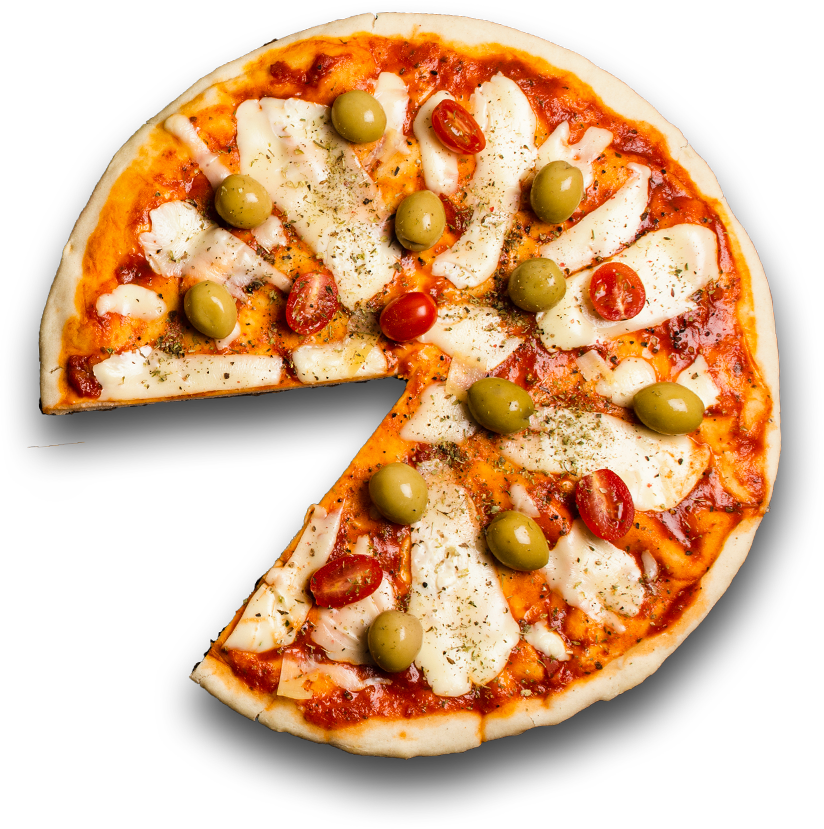
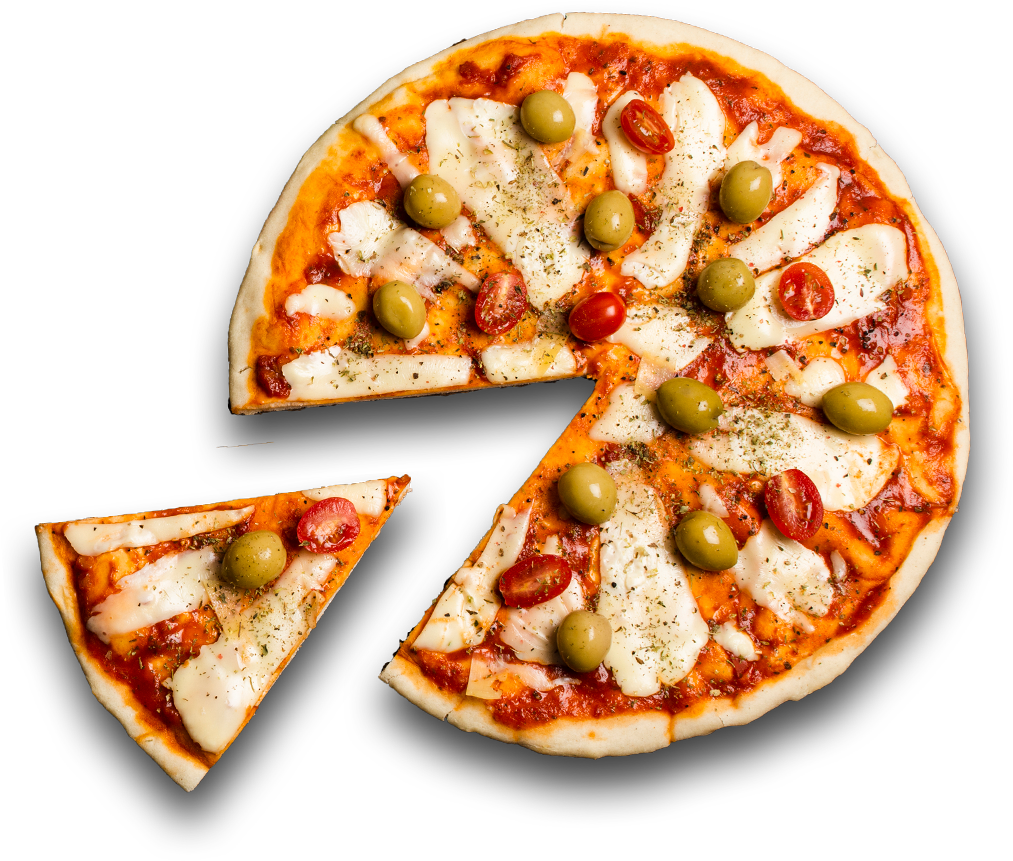
added section about

diff --git a/hwBoo/index.html b/hwBoo/index.html
@@ -58,7 +58,7 @@
             </div>
           </nav>
         </header>
-        <div class="container-xxl pt-5">
+        <div class="container-xxl pt-5 pb-5">
           <!-- Hero / Home -->
           <div class="row">
             <div class="col-md-12 col-lg-5">
@@ -217,23 +217,27 @@
             <span class="carousel-control-next-icon" aria-hidden="true"></span>
             <span class="visually-hidden">Next</span>
           </button>
-          <div class="mx-auto centered-el">
-            <button class="menu__button btn-primary btn-lg btn-dark mt-5 text-uppercase" type="button">show
-              more</button>
-          </div>
+          <button class="menu__button mx-auto d-block btn-primary btn-lg btn-dark mt-5 text-uppercase"
+            type="button">show
+            more</button>
         </div>
       </section>
       <section class="ourStory" id="ourStory">
-        <div class="container-xxl pt-5">
+        <div class="container-xxl pt-5 pb-5">
           <h2 class="ourStory__title text-center text-capitalize text-white pt-5 pb-5">our story</h2>
-        <div class="d-flex p-5">
-          <p class="ourStory__text text-white">Lorem ipsum dolor sit amet consectetur adipisicing elit. Fugit excepturi veritatis quas architecto nihil? A amet at eligendi consequatur cumque? Voluptates, itaque quod magnam vitae molestias doloribus ex ipsa voluptatibus repudiandae sed nisi nostrum vel, iure iste nesciunt animi soluta!</p>
-          <p class="ourStory__text text-white">Lorem ipsum dolor sit amet consectetur adipisicing elit. Fugit excepturi veritatis quas architecto nihil? A amet at eligendi consequatur cumque? Voluptates, itaque quod magnam vitae molestias doloribus ex ipsa voluptatibus repudiandae sed nisi nostrum vel, iure iste nesciunt animi soluta!</p>
-        </div>
-        <div class="mx-auto centered-el">
-          <button class="ourStory__button btn-primary btn-lg btn-light mt-5 mb-5 text-uppercase" type="button">show
+          <div class="d-flex p-5">
+            <p class="ourStory__text text-white">Lorem ipsum dolor sit amet consectetur adipisicing elit. Fugit
+              excepturi veritatis quas architecto nihil? A amet at eligendi consequatur cumque? Voluptates, itaque quod
+              magnam vitae molestias doloribus ex ipsa voluptatibus repudiandae sed nisi nostrum vel, iure iste nesciunt
+              animi soluta!</p>
+            <p class="ourStory__text text-white">Lorem ipsum dolor sit amet consectetur adipisicing elit. Fugit
+              excepturi veritatis quas architecto nihil? A amet at eligendi consequatur cumque? Voluptates, itaque quod
+              magnam vitae molestias doloribus ex ipsa voluptatibus repudiandae sed nisi nostrum vel, iure iste nesciunt
+              animi soluta!</p>
+          </div>
+          <button class="ourStory__button mx-auto d-block btn-primary btn-lg btn-light mt-5 mb-5 text-uppercase"
+            type="button">show
             more</button>
-        </div>
         </div>
       </section>
       <section class="promotion">
@@ -241,9 +245,10 @@
           <div class="d-flex align-items-center justify-content-center">
             <img class="" src="./img/discountPlate.png" alt="...">
             <div class="p-5">
-              <h3 class="promotion__title pt-3 mb-5">Discount up to 
+              <h3 class="promotion__title pt-3 mb-5">Discount up to
                 50% All Excursions</h3>
-              <p class="promotion__text">Lorem ipsum dolor sit amet consectetur adipisicing elit. Nesciunt cum atque excepturi quia reprehenderit vel aspernatur provident fugiat amet ipsam.</p>
+              <p class="promotion__text">Lorem ipsum dolor sit amet consectetur adipisicing elit. Nesciunt cum atque
+                excepturi quia reprehenderit vel aspernatur provident fugiat amet ipsam.</p>
               <button class="promotion__button btn-primary btn-lg btn-dark mt-5 text-uppercase" type="button">read
                 more</button>
             </div>
@@ -253,11 +258,25 @@
             <div class="p-5">
               <h3 class="promotion__title pt-3 mb-5">January’s Promo:
                 Buy 1 Get 1 Free!</h3>
-              <p class="promotion__text">Lorem ipsum dolor sit amet consectetur adipisicing elit. Nesciunt cum atque excepturi quia reprehenderit vel aspernatur provident fugiat amet ipsam.</p>
+              <p class="promotion__text">Lorem ipsum dolor sit amet consectetur adipisicing elit. Nesciunt cum atque
+                excepturi quia reprehenderit vel aspernatur provident fugiat amet ipsam.</p>
               <button class="promotion__button btn-primary btn-lg btn-dark mt-5 text-uppercase" type="button">read
                 more</button>
             </div>
           </div>
+        </div>
+      </section>
+      <section class="moreAbout position-relative">
+        <div class="container-xxl pt-5">
+          <img src="./img/lives.png"
+            class="position-absolute translate-middle start-50 moreAbout__leaves d-none d-lg-block">
+          <h2 class="moreAbout__title text-center text-capitalize text-white pt-5 pb-5 mb-5">more about making dishes
+          </h2>
+          <p class="moreAbout__text text-center mx-auto" style="max-width:720px;">Lorem ipsum dolor sit amet consectetur
+            adipisicing elit. Deleniti sapiente earum adipisci a. Odio rem nihil ducimus, voluptatem maxime distinctio?
+          </p>
+          <div class="moreAbout__underline mx-auto mt-5 mb-5"></div>
+          <img src="img/pizza.png" class="position-relative m-auto">
         </div>
       </section>
   </div>

diff --git a/hwBoo/sass/main.css b/hwBoo/sass/main.css
@@ -158,10 +158,6 @@ a {
   font-family: "Open Sans";
 }
 
-.centered-el {
-  width: 350px;
-}
-
 .menu__button {
   width: 334px;
   height: 75px;
@@ -232,4 +228,35 @@ a {
   color: #ffffff;
   font-weight: 800;
   font-family: "Open Sans";
+}
+
+.moreAbout {
+  background-color: #000000;
+  background: url(../img/headerBackground.png) no-repeat;
+  background-size: cover;
+  max-height: 1080px;
+}
+
+.moreAbout__leaves {
+  top: 20%;
+}
+
+.moreAbout__title {
+  font-size: 58px;
+  color: #f8f6f1;
+  font-family: "Reey-Regular";
+}
+
+.moreAbout__text {
+  font-size: 25px;
+  line-height: 33px;
+  color: #f8f6f1;
+  font-weight: 400;
+  font-family: "Montserrat";
+}
+
+.moreAbout__underline {
+  background-color: #fafafa;
+  height: 10px;
+  width: 160px;
 }/*# sourceMappingURL=main.css.map */

diff --git a/hwBoo/sass/layout/_moreAbout.scss b/hwBoo/sass/layout/_moreAbout.scss
@@ -1,0 +1,31 @@
+.moreAbout {
+    background-color: #000000;
+    background: url(../img/headerBackground.png) no-repeat;
+    background-size: cover;
+    max-height: 1080px;
+}
+
+.moreAbout__leaves {
+    top: 20%;
+}
+
+.moreAbout__title {
+    font-size: 58px;
+    color: #f8f6f1;
+    font-family: "Reey-Regular";
+}
+
+.moreAbout__text {
+    // max-width: 714px;
+    font-size: 25px;
+    line-height: 33px;
+    color: #f8f6f1;
+    font-weight: 400;
+    font-family: "Montserrat";
+}
+
+.moreAbout__underline {
+    background-color: #fafafa;
+    height: 10px;
+    width: 160px;
+}

diff --git a/hwBoo/sass/layout/_menu.scss b/hwBoo/sass/layout/_menu.scss
@@ -27,9 +27,7 @@ color: #343434;
 font-weight: 400;
 font-family: "Open Sans";
 }
-.centered-el {
-    width: 350px;
-}
+
 .menu__button {
     width: 334px;
     height: 75px;

diff --git a/hwBoo/sass/main.scss b/hwBoo/sass/main.scss
@@ -15,3 +15,5 @@
 @import './layout/menu';
 @import './layout/ourStory';
 @import './layout/promotion';
+@import './layout/moreAbout';
+
